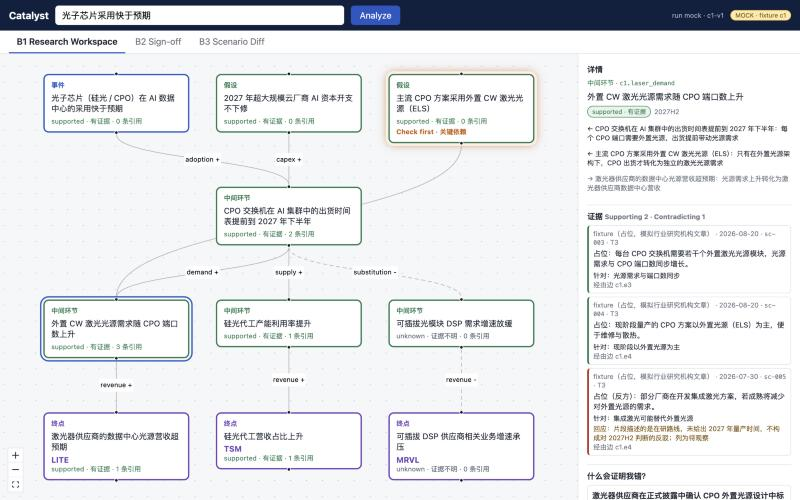
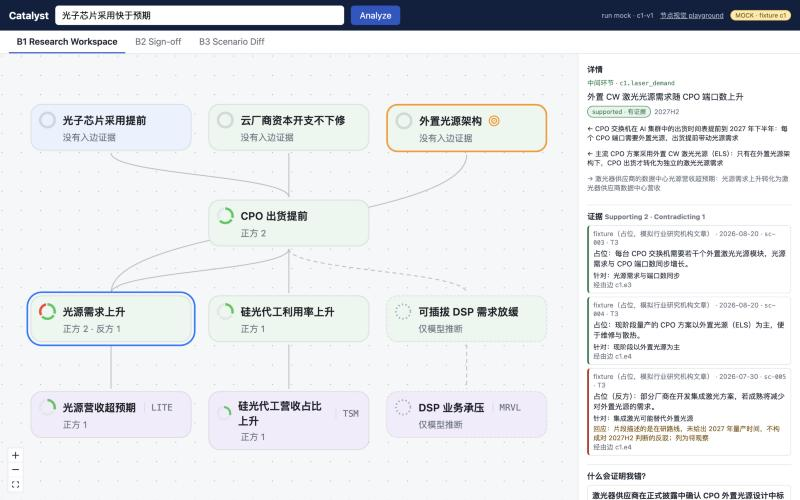
web: adopt picked node design in the app canvas
Card shape, evidence ring, role tint plus state borders, side panel, and
receding unaffected nodes in scenarios (picks from #playground). Shared node
code moves to src/node; the old ClaimNode is removed.

diff --git a/web/src/components/GraphCanvas.tsx b/web/src/components/GraphCanvas.tsx
@@ -1,22 +1,54 @@
 // 只读画布：节点不可拖、不可连线；位置由 toFlow 按深度算，不进 state。
-import { Background, Controls, ReactFlow } from '@xyflow/react';
+// 节点样式是 playground 里选定的组合：小卡片 + 证据圆环 + 类型淡底色 + 侧边面板 + 情景下其余退后。
+import { Background, Controls, ReactFlow, type Edge, type Node } from '@xyflow/react';
 import { useMemo } from 'react';
+import { nodeConditions } from '../lookup';
+import DesignNode, { type DesignData, type Look } from '../node/DesignNode';
+import { shortLabel } from '../node/labels';
+import { strength } from '../node/strength';
 import { toFlow, type FlowOpts } from '../toFlow';
-import type { Graph } from '../types';
-import ClaimNode from './ClaimNode';
+import type { VersionBundle } from '../types';
 
-const nodeTypes = { claim: ClaimNode };
+export const LOOK: Look = { shape: 'card', strength: 'ring', color: 'role', expand: 'panel', scenario: 'dim' };
 
-export default function GraphCanvas({ graph, opts, selectedNodeId, onSelect }: {
-  graph: Graph; opts?: FlowOpts; selectedNodeId: string | null; onSelect: (id: string | null) => void;
+const nodeTypes = { design: DesignNode };
+
+export default function GraphCanvas({ bundle, opts, selectedNodeId, onSelect }: {
+  bundle: VersionBundle; opts?: FlowOpts; selectedNodeId: string | null; onSelect: (id: string | null) => void;
 }) {
+  const { graph, excerpts } = bundle;
   const flow = useMemo(() => toFlow(graph, opts), [graph, opts]);
-  const nodes = flow.nodes.map((n) => ({ ...n, selected: n.id === selectedNodeId }));
+  const { nodes, edges } = useMemo(() => {
+    const changed = opts?.changedTargets ?? [];
+    const lit = (id: string) => opts?.assessment?.[id] === 'challenged' || changed.includes(id);
+    const nodes: Node<DesignData>[] = flow.nodes.map((n) => {
+      const { claim } = n.data;
+      return {
+        id: n.id, type: 'design',
+        position: { x: n.position.x * 0.85, y: n.position.y * 0.7 }, // 新卡片比旧的矮，层距收紧
+        data: {
+          claim, look: LOOK, label: shortLabel(claim.id, claim.statement, changed.includes(claim.id)),
+          s: strength(graph, claim.id, excerpts), conditions: nodeConditions(graph, claim.id),
+          isKey: n.data.isKey, isChanged: n.data.isChangedTarget, assessment: n.data.assessment, expanded: false,
+        },
+      };
+    });
+    const edges: Edge[] = flow.edges.map((e) => ({
+      id: e.id, source: e.source, target: e.target,
+      style: {
+        stroke: '#b9bfc8', strokeWidth: 1.2, strokeDasharray: e.data?.modelOnly ? '5 4' : undefined,
+        opacity: opts?.assessment && !(lit(e.source) && lit(e.target)) ? 0.25 : 1,
+      },
+    }));
+    return { nodes, edges };
+  }, [flow, graph, excerpts, opts]);
+
   return (
     <div className="canvas">
       <ReactFlow
         key={graph.version + (opts?.assessment ? ':scenario' : '')}
-        nodes={nodes} edges={flow.edges} nodeTypes={nodeTypes} fitView
+        nodes={nodes.map((n) => ({ ...n, selected: n.id === selectedNodeId }))} edges={edges} nodeTypes={nodeTypes}
+        fitView fitViewOptions={{ padding: 0.12 }}
         nodesDraggable={false} nodesConnectable={false} edgesFocusable={false}
         onNodeClick={(_, n) => onSelect(n.id)} onPaneClick={() => onSelect(null)}
         proOptions={{ hideAttribution: true }}

diff --git a/web/src/node/DesignNode.tsx b/web/src/node/DesignNode.tsx
@@ -1,6 +1,7 @@
-// playground 用的节点：同一份数据，按 Look 的五个维度画成不同样子。
+// 画布节点（应用和 playground 共用）：同一份数据，按 Look 的五个维度画成不同样子。
 import { Handle, Position, type Node, type NodeProps } from '@xyflow/react';
 import type { AssessmentStatus, Claim, Condition } from '../types';
+import './node.css';
 import { Bars, Ring } from './StrengthGlyph';
 import type { Strength } from './strength';
 
@@ -39,7 +40,7 @@ function Target() {
   );
 }
 
-export default function DesignNode({ data }: NodeProps<Node<DesignData>>) {
+export default function DesignNode({ data, selected }: NodeProps<Node<DesignData>>) {
   const { claim, label, look, s, isKey, isChanged, assessment, expanded, conditions } = data;
   const challenged = assessment === 'challenged';
   const receded = assessment && !challenged && !isChanged && look.scenario === 'dim';
@@ -54,6 +55,8 @@ export default function DesignNode({ data }: NodeProps<Node<DesignData>>) {
     borderWidth: challenged || isKey || isChanged ? 2 : 1,
     borderStyle: s.modelOnly || claim.role === 'shock' ? 'dashed' : 'solid',
     opacity: receded ? 0.32 : 1,
+    outline: selected ? '2px solid var(--pg-blue)' : undefined,
+    outlineOffset: 3,
   } as const;
 
   const meta = s.noInEdges ? '没有入边证据' : s.modelOnly ? '仅模型推断' : `正方 ${s.support}${s.contra ? ` · 反方 ${s.contra}` : ''}`;
@@ -62,7 +65,7 @@ export default function DesignNode({ data }: NodeProps<Node<DesignData>>) {
     const deadline = conditions.map((c) => c.deadline).sort()[0];
     return (
       <div className="pg-node pg-expanded" style={{ ...style, opacity: 1 }}>
-        <Handle type="target" position={Position.Top} />
+        <Handle type="target" position={Position.Top} className="pg-handle" />
         <div className="pg-row">
           {glyph}
           <div style={{ minWidth: 0 }}>
@@ -79,14 +82,14 @@ export default function DesignNode({ data }: NodeProps<Node<DesignData>>) {
           {challenged && <span style={{ color: 'var(--pg-orange)' }}>情景下受挑战</span>}
           {isChanged && <span style={{ color: 'var(--pg-blue)' }}>改动的假设</span>}
         </div>
-        <Handle type="source" position={Position.Bottom} />
+        <Handle type="source" position={Position.Bottom} className="pg-handle" />
       </div>
     );
   }
 
   return (
     <div className={`pg-node ${look.shape === 'pill' ? 'pg-pill' : 'pg-card'}`} style={style}>
-      <Handle type="target" position={Position.Top} />
+      <Handle type="target" position={Position.Top} className="pg-handle" />
       <div className="pg-row">
         {glyph}
         <span className="pg-title">{label}</span>
@@ -95,7 +98,7 @@ export default function DesignNode({ data }: NodeProps<Node<DesignData>>) {
         {ticker}
       </div>
       {look.shape === 'card' && <div className="pg-meta">{meta}</div>}
-      <Handle type="source" position={Position.Bottom} />
+      <Handle type="source" position={Position.Bottom} className="pg-handle" />
     </div>
   );
 }

diff --git a/web/src/playground/playground.css b/web/src/playground/playground.css
@@ -1,20 +1,4 @@
 .pg {
-  --pg-surface: #ffffff;
-  --pg-line: #d7dbe1;
-  --pg-edge: #b9bfc8;
-  --pg-grid: #e6e8ec;
-  --pg-track: #e3e6ea;
-  --pg-muted: #9aa1ab;
-  --pg-text: #1c1f24;
-  --pg-sub: #6b7280;
-  --pg-green: #34c759;
-  --pg-red: #ff3b30;
-  --pg-orange: #ff9500;
-  --pg-blue: #007aff;
-  --pg-green-bg: #eaf7ee;
-  --pg-blue-bg: #e9f2ff;
-  --pg-purple-bg: #f2ecfb;
-  --pg-orange-bg: #fff3e0;
   font-family: -apple-system, BlinkMacSystemFont, 'SF Pro Text', 'PingFang SC', sans-serif;
   color: var(--pg-text);
   background: #f5f5f7;
@@ -41,18 +25,3 @@
 .pg-side { width: 210px; border-left: 1px solid var(--pg-grid); padding: 12px; overflow-y: auto; }
 .pg-foot { display: flex; align-items: center; gap: 12px; padding: 10px 20px; background: #fff; border-top: 1px solid var(--pg-line); font-size: 13px; }
 
-.pg-node { font-size: 13px; color: var(--pg-text); transition: opacity 0.3s; }
-.pg-pill { border-radius: 999px; border: 1px solid; padding: 6px 12px 6px 7px; white-space: nowrap; }
-.pg-card { border-radius: 14px; border: 1px solid; padding: 8px 12px 8px 9px; width: 200px; }
-.pg-expanded { border-radius: 24px; border: 2px solid; padding: 12px 14px; width: 300px; background: #fff; box-shadow: 0 8px 28px rgba(0, 0, 0, 0.14); }
-.pg-row { display: flex; align-items: center; gap: 8px; }
-.pg-title { font-weight: 600; font-size: 13px; display: inline-flex; align-items: center; gap: 4px; }
-.pg-sub { font-size: 12px; color: var(--pg-sub); line-height: 1.45; margin: 2px 0; }
-.pg-meta { font-size: 11px; color: var(--pg-sub); margin: 3px 0 0 30px; }
-.pg-ticker { font-family: ui-monospace, 'SF Mono', Menlo, monospace; font-size: 11px; color: var(--pg-sub); border-left: 1px solid var(--pg-line); padding-left: 8px; margin-left: 2px; }
-.pg-edit { color: var(--pg-blue); font-size: 12px; }
-.pg-facts { display: flex; flex-wrap: wrap; gap: 4px 14px; margin-top: 8px; font-size: 12px; color: var(--pg-sub); }
-.pg-dot { display: inline-block; width: 7px; height: 7px; border-radius: 50%; margin-right: 5px; }
-.pg-bars { position: relative; display: inline-flex; }
-.pg-contra { position: absolute; top: -6px; right: -8px; background: var(--pg-red); color: #fff; font-size: 9px; font-weight: 700; border-radius: 999px; min-width: 13px; height: 13px; line-height: 13px; text-align: center; padding: 0 3px; }
-.pg .react-flow__handle { opacity: 0; }

diff --git a/web/src/node/node.css b/web/src/node/node.css
@@ -1,0 +1,33 @@
+:root {
+  --pg-surface: #ffffff;
+  --pg-line: #d7dbe1;
+  --pg-edge: #b9bfc8;
+  --pg-grid: #e6e8ec;
+  --pg-track: #e3e6ea;
+  --pg-muted: #9aa1ab;
+  --pg-text: #1c1f24;
+  --pg-sub: #6b7280;
+  --pg-green: #34c759;
+  --pg-red: #ff3b30;
+  --pg-orange: #ff9500;
+  --pg-blue: #007aff;
+  --pg-green-bg: #eaf7ee;
+  --pg-blue-bg: #e9f2ff;
+  --pg-purple-bg: #f2ecfb;
+  --pg-orange-bg: #fff3e0;
+}
+.pg-node { font-size: 13px; color: var(--pg-text); transition: opacity 0.3s; }
+.pg-pill { border-radius: 999px; border: 1px solid; padding: 6px 12px 6px 7px; white-space: nowrap; }
+.pg-card { border-radius: 14px; border: 1px solid; padding: 8px 12px 8px 9px; width: 200px; }
+.pg-expanded { border-radius: 24px; border: 2px solid; padding: 12px 14px; width: 300px; background: #fff; box-shadow: 0 8px 28px rgba(0, 0, 0, 0.14); }
+.pg-row { display: flex; align-items: center; gap: 8px; }
+.pg-title { font-weight: 600; font-size: 13px; display: inline-flex; align-items: center; gap: 4px; }
+.pg-sub { font-size: 12px; color: var(--pg-sub); line-height: 1.45; margin: 2px 0; }
+.pg-meta { font-size: 11px; color: var(--pg-sub); margin: 3px 0 0 30px; }
+.pg-ticker { font-family: ui-monospace, 'SF Mono', Menlo, monospace; font-size: 11px; color: var(--pg-sub); border-left: 1px solid var(--pg-line); padding-left: 8px; margin-left: 2px; }
+.pg-edit { color: var(--pg-blue); font-size: 12px; }
+.pg-facts { display: flex; flex-wrap: wrap; gap: 4px 14px; margin-top: 8px; font-size: 12px; color: var(--pg-sub); }
+.pg-dot { display: inline-block; width: 7px; height: 7px; border-radius: 50%; margin-right: 5px; }
+.pg-bars { position: relative; display: inline-flex; }
+.pg-contra { position: absolute; top: -6px; right: -8px; background: var(--pg-red); color: #fff; font-size: 9px; font-weight: 700; border-radius: 999px; min-width: 13px; height: 13px; line-height: 13px; text-align: center; padding: 0 3px; }
+.react-flow__handle.pg-handle { opacity: 0; }

diff --git a/web/src/components/Workspace.tsx b/web/src/components/Workspace.tsx
@@ -11,13 +11,13 @@ export default function Workspace({ bundle, selectedNodeId, onSelect }: {
   const opts = useMemo(() => ({ keyClaimId: keyClaimId(bundle.proposal, bundle.graph) }), [bundle]);
   return (
     <div className="split">
-      <GraphCanvas graph={bundle.graph} opts={opts} selectedNodeId={selectedNodeId} onSelect={onSelect} />
+      <GraphCanvas bundle={bundle} opts={opts} selectedNodeId={selectedNodeId} onSelect={onSelect} />
       {selectedNodeId ? (
         <NodePanel bundle={bundle} nodeId={selectedNodeId} />
       ) : (
         <aside className="panel">
           <p className="muted">点一个节点，看它的证据和「什么会证明我错」。</p>
-          <p className="small muted">实线 = 有引用；虚线 = 仅模型推断。外发光的是关键依赖。</p>
+          <p className="small muted">圆环：绿格 = 正方引用，红格 = 反方，空环 = 没有引用。虚线 = 仅模型推断。橙框加靶心的是关键依赖。</p>
         </aside>
       )}
     </div>

diff --git a/web/src/playground/Playground.tsx b/web/src/playground/Playground.tsx
@@ -5,10 +5,10 @@ import { useEffect, useMemo, useState } from 'react';
 import { changedTargets, keyClaimId, nodeConditions } from '../lookup';
 import { toFlow } from '../toFlow';
 import type { Fixture, VersionBundle } from '../types';
-import DesignNode, { type DesignData, type Look } from './DesignNode';
-import { shortLabel } from './labels';
-import { strength } from './strength';
-import { Bars, Ring } from './StrengthGlyph';
+import DesignNode, { type DesignData, type Look } from '../node/DesignNode';
+import { shortLabel } from '../node/labels';
+import { strength } from '../node/strength';
+import { Bars, Ring } from '../node/StrengthGlyph';
 import './playground.css';
 
 type Key = keyof Look;

diff --git a/web/src/components/Scenario.tsx b/web/src/components/Scenario.tsx
@@ -75,7 +75,7 @@ export default function Scenario({ versions, base, scenario, viewing, busy, sele
         </div>
       )}
       <div className="split">
-        <GraphCanvas graph={shown.graph} opts={opts} selectedNodeId={selectedNodeId} onSelect={onSelect} />
+        <GraphCanvas bundle={shown} opts={opts} selectedNodeId={selectedNodeId} onSelect={onSelect} />
         {selectedNodeId && shown.graph.nodes.some((n) => n.id === selectedNodeId) ? (
           <div className="panel" style={{ padding: 0 }}>
             <div style={{ padding: '8px 16px' }}><button className="link" onClick={() => onSelect(null)}>← 返回情景摘要</button></div>

diff --git a/web/src/__tests__/strength.test.ts b/web/src/__tests__/strength.test.ts
@@ -1,7 +1,7 @@
 import { describe, expect, it } from 'vitest';
 import fixture from '../../fixtures/c1.json';
-import { shortLabel } from '../playground/labels';
-import { strength } from '../playground/strength';
+import { shortLabel } from '../node/labels';
+import { strength } from '../node/strength';
 import type { Fixture } from '../types';
 
 const v1 = (fixture as unknown as Fixture).versions['c1-v1'];
